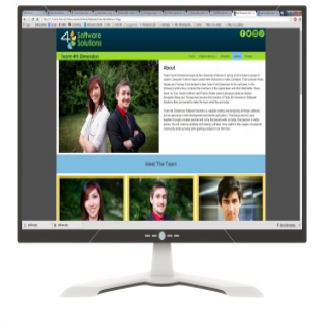
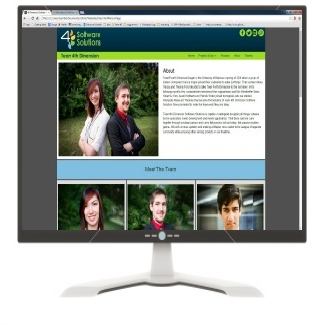
Minor changes

Changed region(s): [[0.0615, 0.0308, 0.9538, 0.7077]]

diff --git a/Index.html b/Index.html
@@ -259,7 +259,7 @@
           </p>
 				</div>
 			</div>
-			<div class="row row-even" style="border-top:5px solid #505050;border-bottom:5px solid #505050;">
+			<div class="row row-odd" style="border-top:5px solid #505050;border-bottom:5px solid #505050;">
 				<div class="col-xs-12">
 					<h2 style="text-align: center; margin: 0px;">Meet The Team</h2>
 				</div>
